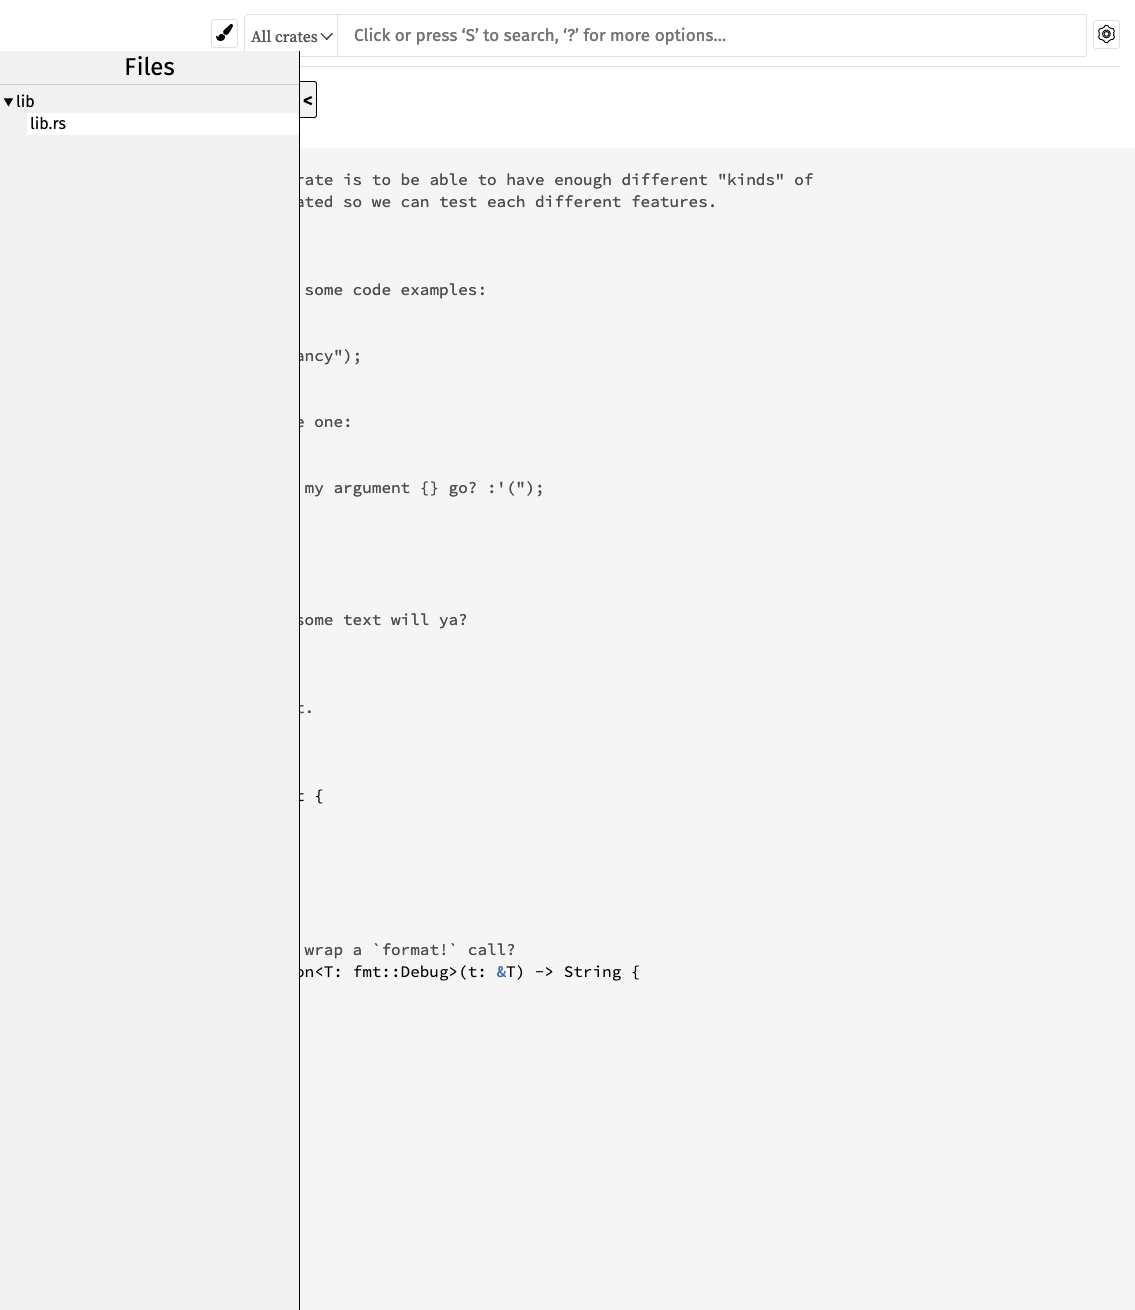
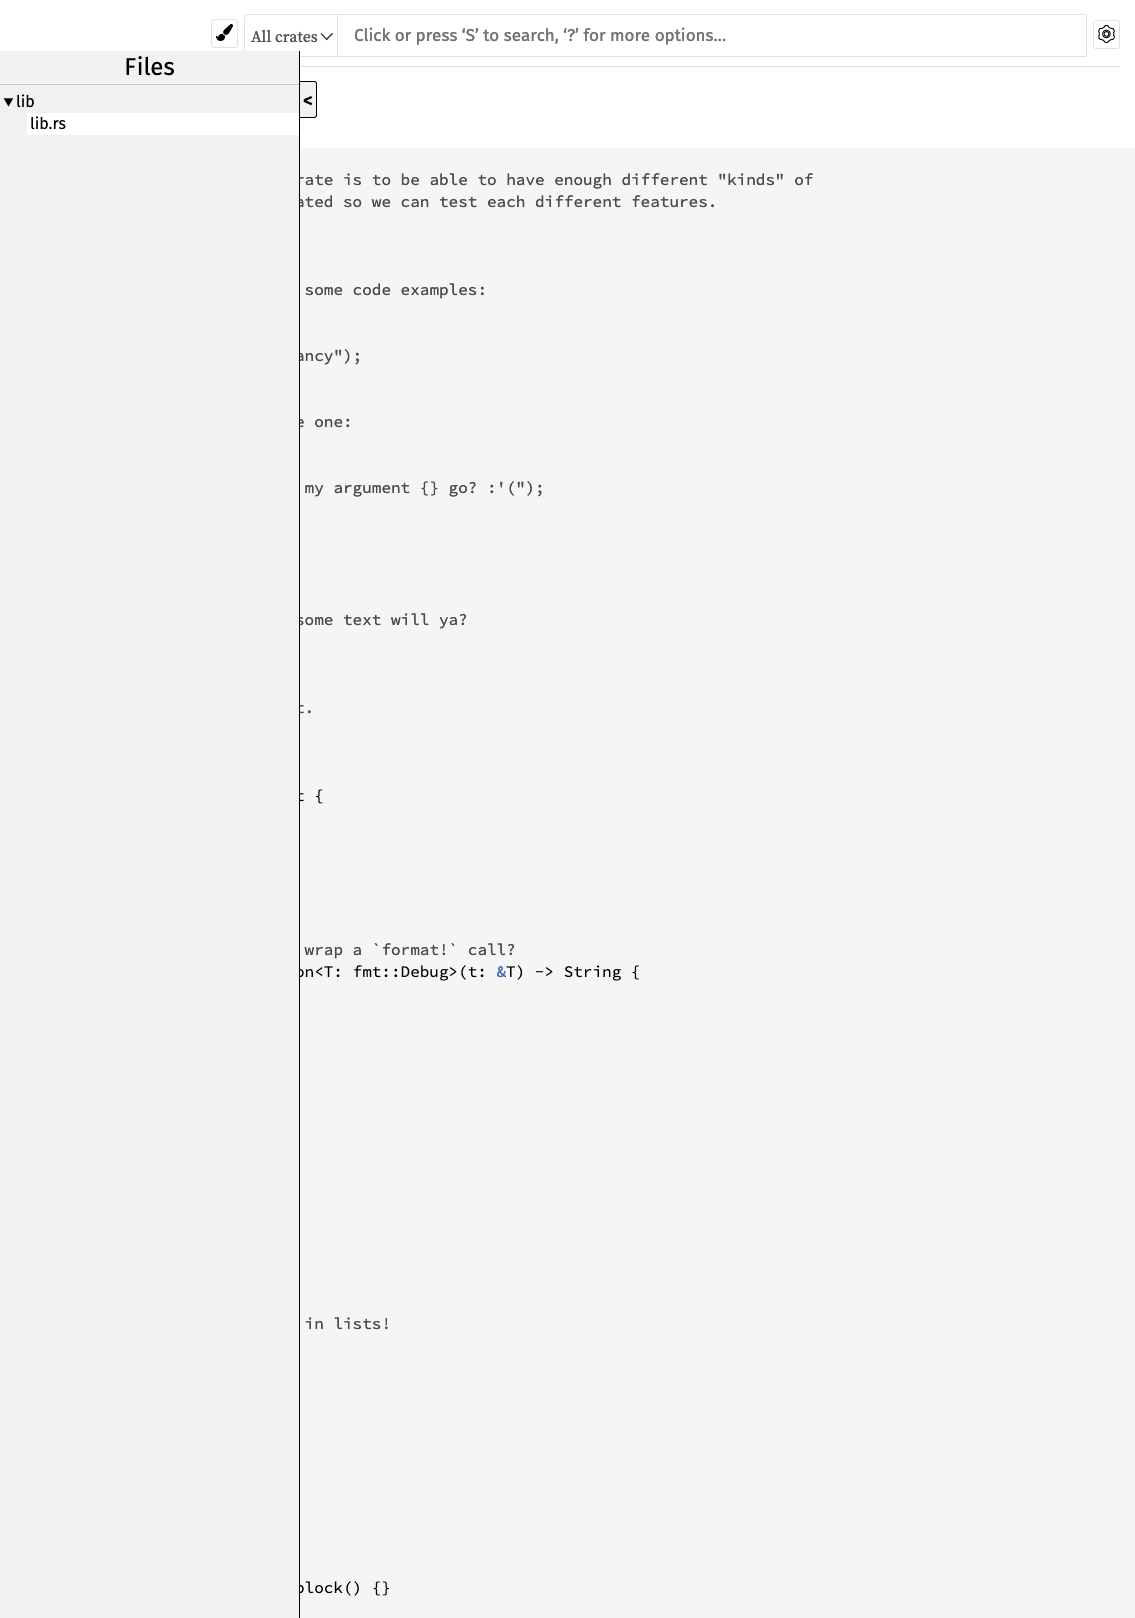
Add new entry in test file

diff --git a/test-docs/src/lib.rs b/test-docs/src/lib.rs
@@ -49,3 +49,17 @@ pub trait AnotherOne {
     /// Some func 3.
     fn func3();
 }
+
+/// Check for "i" signs in lists!
+///
+/// 1. elem 1
+/// 2.test 1
+///   ```compile_fail
+///   fn foo() {}
+///   ```
+/// 3. elem 3
+/// 4. ```ignore
+///    fn foo() {}
+///    ```
+/// 5. elem 5
+pub fn check_list_code_block() {}
